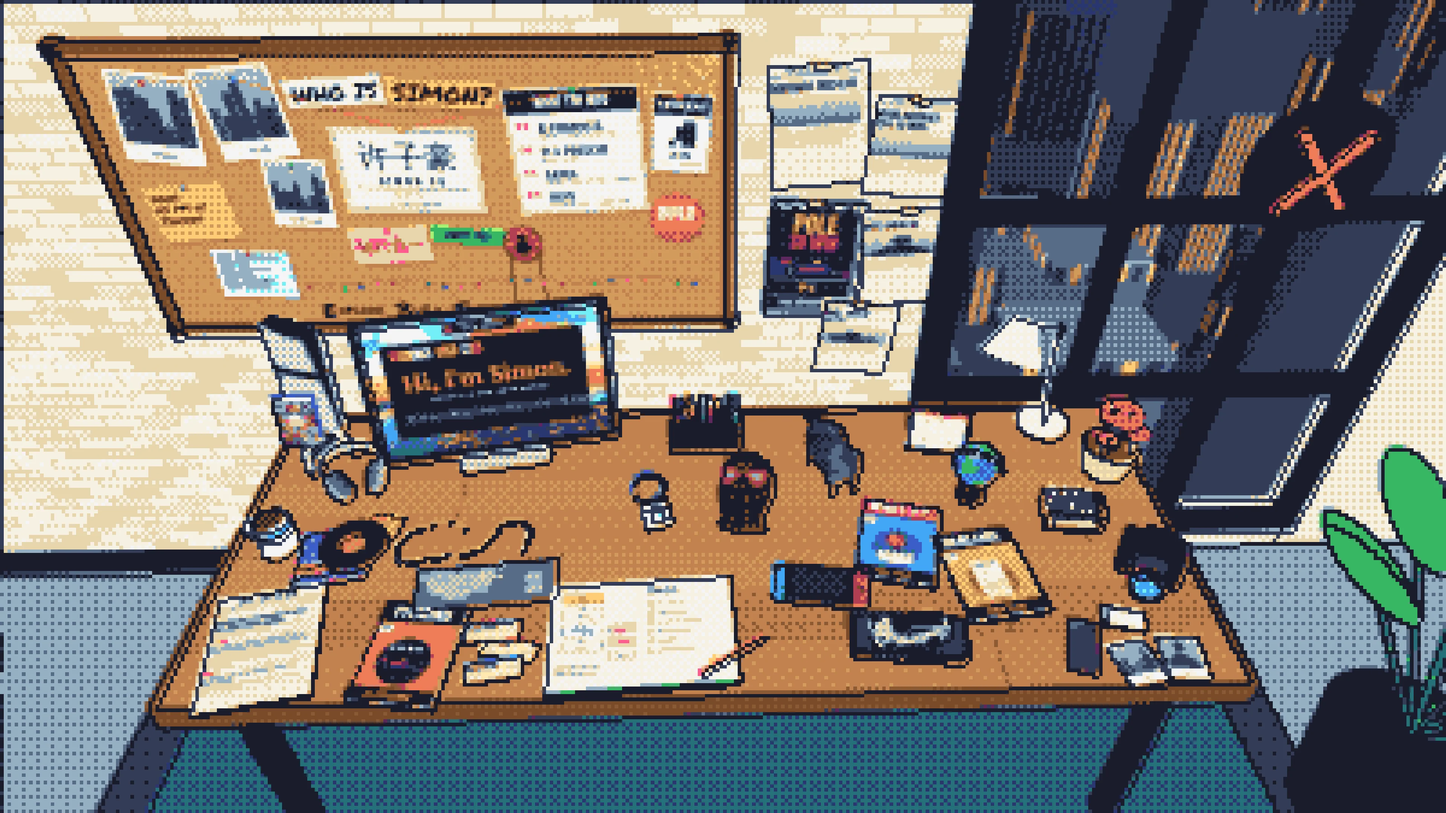
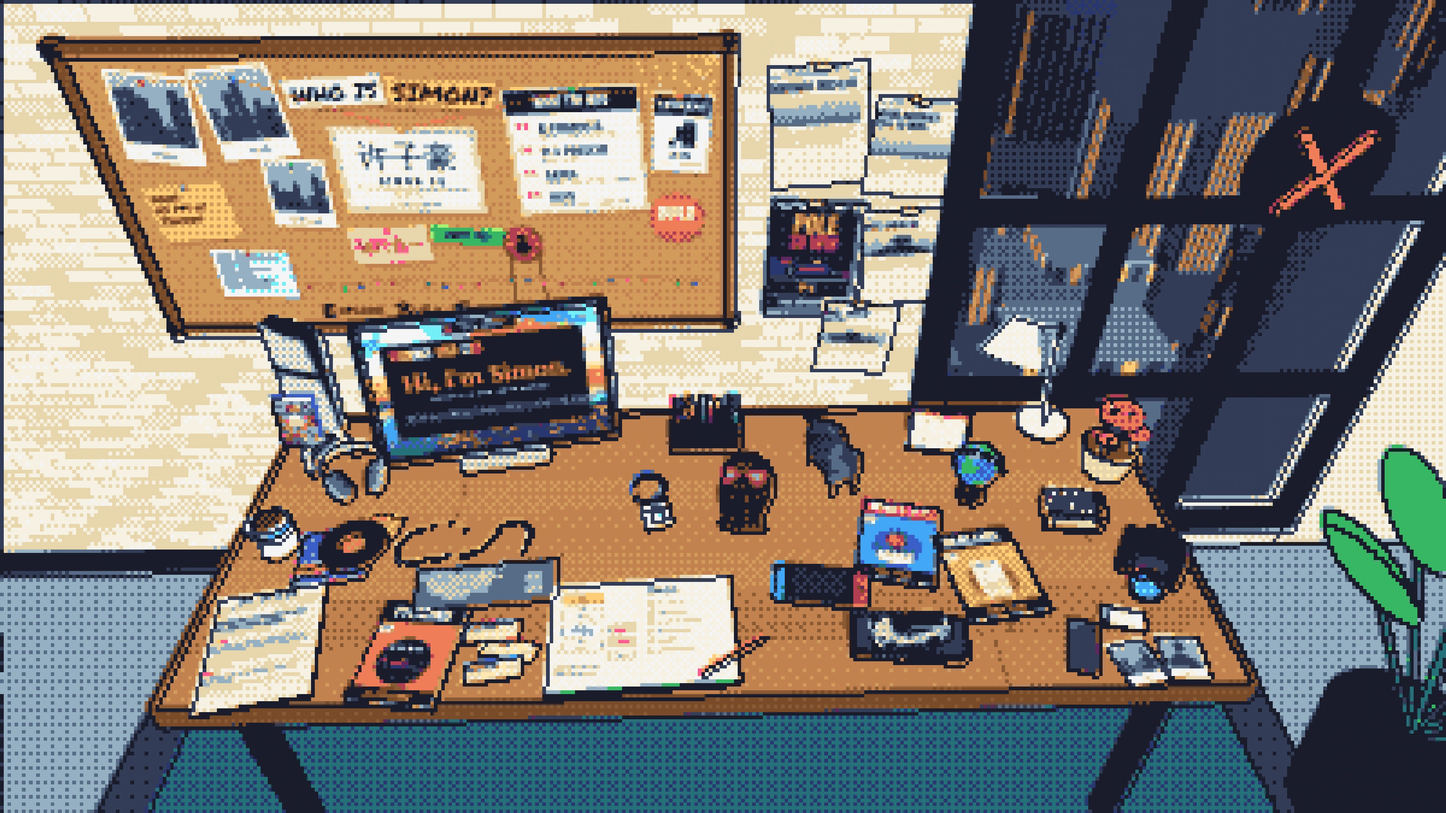
Sharpen the stylized desk images (#2)
* Scaffold Next.js personal site based on EdwinjJ1/personal-website

Static-export Next.js 15 site with home, about, projects, blog and
photography pages, a zh/en language switch, light/dark themes with the
WebGL starfield backdrop, placeholder content in src/data, and a GitHub
Pages deploy workflow.

Claude-Session: https://claude.ai/code/session_019ggxabgDhCYUh62LeLnHLD

* Switch to the 3D desk site from EdwinjJ1/personal-website 002

Replace the Next.js portfolio with the Blender desk + ten-style WebGL
site. The original author's text, photos, project art, logo and resume
details are removed and replaced with placeholders; hotspots are renamed
to generic ones (zine-1..4, badge, plant, table-model) and the club mascot
is dropped. Textures now use bundled OFL fonts so they build on any OS,
web fonts are self-hosted, and the chat falls back to canned answers until
a Worker is deployed. Renders (site/assets/styles, hot.png, scene.json)
are not generated yet.

Claude-Session: https://claude.ai/code/session_019ggxabgDhCYUh62LeLnHLD

* Remove the original author's journal API address and keychain name

Claude-Session: https://claude.ai/code/session_019ggxabgDhCYUh62LeLnHLD

* Redesign desk objects for a self-showcase site

Remove the trophies, GitHub city, round-table model and echo puck. Add a
mini race track with a Porsche, a year-in-review calendar, a globe, movie
ticket stubs, an index-card box for podcasts and WeChat reads, a sleeping
[…]

Changed region(s): [[0.7188, 0.8375, 0.7812, 0.8685], [0.8438, 0.1551, 0.875, 0.1861], [0.8125, 0.3102, 0.8438, 0.3412]]

diff --git a/pipeline/stylize.py b/pipeline/stylize.py
@@ -132,8 +132,6 @@ class Ctx:
         if vary:
             a = np.maximum(a, dilate(self.e_outer, w_outer * 1.9 * s) * (self.noise(26) > 0.1))
         a = np.maximum(a, dilate(self.e_inner, w_inner * s) if w_inner * s >= 1 else self.e_inner * min(1, w_inner * s + 0.4))
-        if w_detail:
-            a = np.maximum(a, blur(self.e_detail, 0.5 * s) * min(1.0, w_detail * 1.6))
         if city:
             a = np.maximum(a, blur(self.e_city, 0.45 * s) * city)
         a = np.clip(blur(a, 0.42 * s) * 1.25, 0, 1)
@@ -141,6 +139,8 @@ class Ctx:
             mx = (self.xx + self.noise(18, wobble * s)).astype(np.float32)
             my = (self.yy + self.noise(18, wobble * s)).astype(np.float32)
             a = cv2.remap(a, mx, my, cv2.INTER_LINEAR, borderMode=cv2.BORDER_REFLECT)
+        if w_detail:   # 印刷细节（贴图上的字）只描一道细线，不抖不加粗，否则小字会糊成一团
+            a = np.maximum(a, blur(self.e_detail, 0.25 * s) * min(1.0, w_detail * 0.8))
         return a
 
     def light(self, sun=1.0, sky=1.0, screen=1.0, rgb=1.0, lamp=1.0):
@@ -198,7 +198,7 @@ def comic(C):
     out = mix(out, np.clip(out * 1.12 + hexc("#fff3b0") * 0.16, 0, 1), sunpatch)
     out = mix(out, hexc("#fff8d8")[None, None], C.halftone(np.clip(sunpatch - 0.55, 0, 1) * 0.5, 6.5, 60) * 0.5)
     out = np.clip(out + C.glow(10, 0.5) + C.E * 0.25, 0, 1)
-    k = int(round(2.2 * C.s))                                             # 套色错位
+    k = int(round(0.8 * C.s))                                             # 套色错位（太大会把小字糊掉）
     out = np.stack([np.roll(out[..., 0], (k // 2, k), (0, 1)), out[..., 1], np.roll(out[..., 2], (-k // 2, -k), (0, 1))], -1)
     out = out * (C.paper("#fff6e0", 0.03, 0.015) * 0.5 + 0.5)
     return mix(out, hexc("#14121c")[None, None], C.lines(1.7, 0.9, 0.6))
@@ -438,8 +438,8 @@ def main():
         C.rs = np.random.RandomState(5)
         img = (np.clip(RENDER[name](C), 0, 1) * 255 + 0.5).astype(np.uint8)
         im = Image.fromarray(img)
-        im.save(out / "styles" / f"{name}.webp", quality=84, method=5)
-        im.resize((C.W // 2, C.H // 2), Image.NEAREST if name == "pixel" else Image.LANCZOS).save(out / "styles" / f"{name}@1x.webp", quality=80, method=5)
+        im.save(out / "styles" / f"{name}.webp", quality=92, method=5)
+        im.resize((C.W // 2, C.H // 2), Image.NEAREST if name == "pixel" else Image.LANCZOS).save(out / "styles" / f"{name}@1x.webp", quality=88, method=5)
         print("STYLE", name)
 
 
